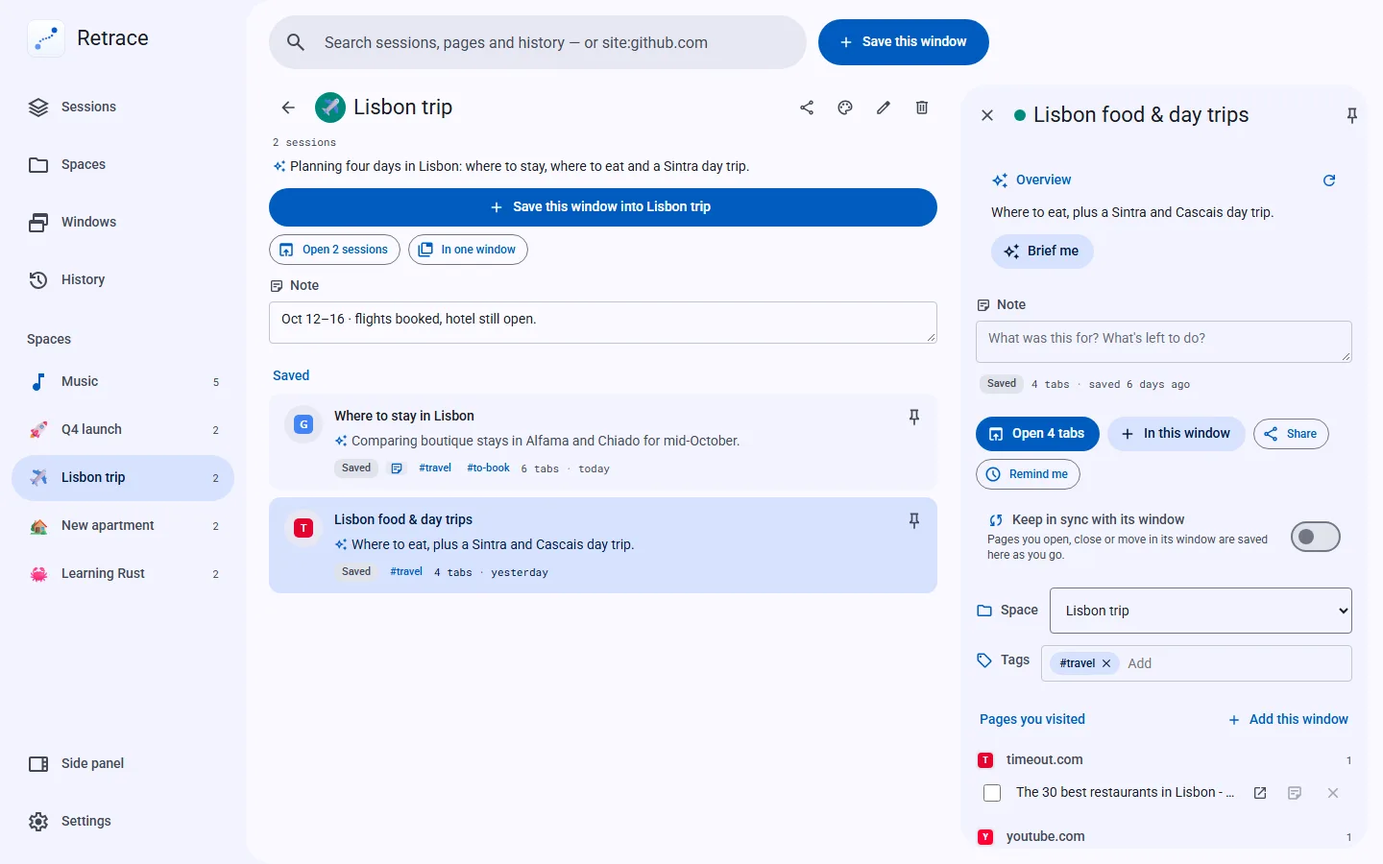
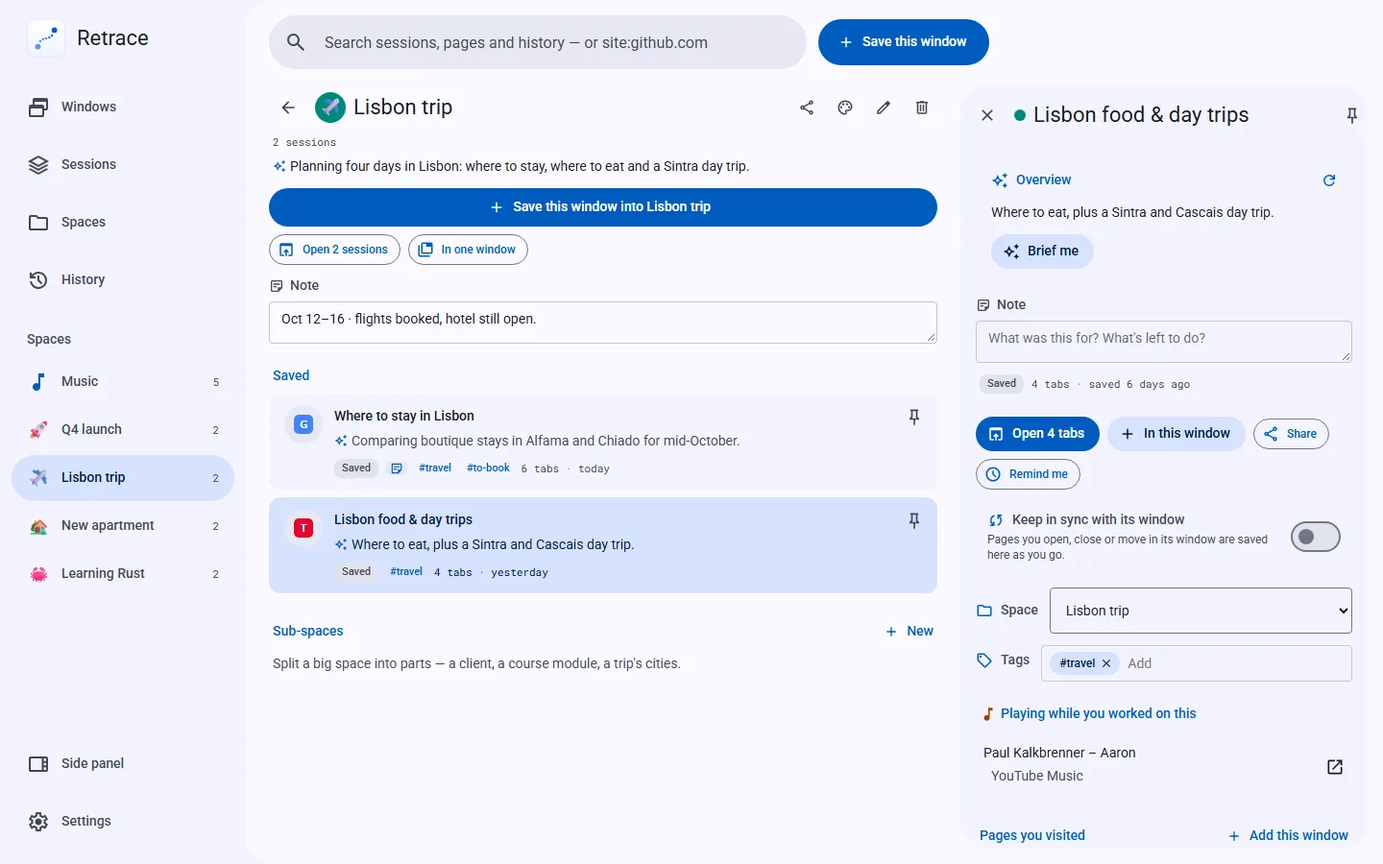
Site: Windows home, kept windows, Spaces that fill themselves, sub-spaces, Music import & Insights, Alt+Shift+R
New hero frame (Windows) and a 'Close a window, lose nothing' row; every UI picture
re-rendered from the current build; pricing, support and privacy (2026-09-28) cover
kept windows, imported listening history and the new Pro items.

diff --git a/index.html b/index.html
@@ -6,12 +6,12 @@
 <meta http-equiv="Content-Security-Policy" content="default-src 'self'; script-src 'self'; style-src 'self'; img-src 'self'; font-src 'self'; connect-src 'none'; frame-src 'none'; object-src 'none'; base-uri 'self'; form-action 'none'">
 <meta name="referrer" content="strict-origin-when-cross-origin">
 <title>Retrace — your browser history, made useful</title>
-<meta name="description" content="Retrace turns your tabs into sessions you can search, sort and reopen — like a better, built-in browser history. Everything stays on your device. No account, no network calls.">
+<meta name="description" content="Retrace shows every open window at a glance, keeps your tabs as sessions you can search and reopen, and files them into Spaces by itself — like a better, built-in browser history. Everything stays on your device.">
 <link rel="icon" href="icon.png?v=2">
 <link rel="apple-touch-icon" href="apple-touch-icon.png">
-<link rel="stylesheet" href="styles.css?v=4">
+<link rel="stylesheet" href="styles.css?v=5">
 <meta property="og:title" content="Retrace — your browser history, made useful">
-<meta property="og:description" content="Sessions you can search, sort and reopen — like a better, built-in browser history. Everything stays on your device.">
+<meta property="og:description" content="Every window at a glance, sessions you can search and reopen, Spaces that fill themselves — like a better, built-in browser history. Everything stays on your device.">
 <meta property="og:type" content="website">
 <meta property="og:url" content="https://retrace-addon.store/">
 <meta property="og:image" content="https://retrace-addon.store/img/og.png">
@@ -43,6 +43,8 @@
 <symbol id="i-open" viewBox="0 -960 960 960"><path d="M200-120q-33 0-56.5-23.5T120-200v-560q0-33 23.5-56.5T200-840h560q33 0 56.5 23.5T840-760v560q0 33-23.5 56.5T760-120H600v-80h160v-480H200v480h160v80H200Zm240 0v-246l-64 64-56-58 160-160 160 160-56 58-64-64v246h-80Z"/></symbol>
 <symbol id="i-check" viewBox="0 -960 960 960"><path d="M382-240 154-468l57-57 171 171 367-367 57 57-424 424Z"/></symbol>
 <symbol id="i-close" viewBox="0 -960 960 960"><path d="m256-200-56-56 224-224-224-224 56-56 224 224 224-224 56 56-224 224 224 224-56 56-224-224-224 224Z"/></symbol>
+<symbol id="i-keyboard" viewBox="0 -960 960 960"><path d="M160-200q-33 0-56.5-23.5T80-280v-400q0-33 23.5-56.5T160-760h640q33 0 56.5 23.5T880-680v400q0 33-23.5 56.5T800-200H160Zm0-80h640v-400H160v400Zm160-40h320v-80H320v80ZM200-440h80v-80h-80v80Zm120 0h80v-80h-80v80Zm120 0h80v-80h-80v80Zm120 0h80v-80h-80v80Zm120 0h80v-80h-80v80ZM200-560h80v-80h-80v80Zm120 0h80v-80h-80v80Zm120 0h80v-80h-80v80Zm120 0h80v-80h-80v80Zm120 0h80v-80h-80v80ZM160-280v-400 400Z"/></symbol>
+<symbol id="i-folder" viewBox="0 -960 960 960"><path d="M160-160q-33 0-56.5-23.5T80-240v-480q0-33 23.5-56.5T160-800h240l80 80h320q33 0 56.5 23.5T880-640v400q0 33-23.5 56.5T800-160H160Zm0-80h640v-400H447l-80-80H160v480Zm0 0v-480 480Z"/></symbol>
 <symbol id="i-cloud" viewBox="0 0 24 24"><path d="M6.5 19a4.5 4.5 0 0 1-.6-8.96A6.5 6.5 0 0 1 18.2 8.6 5.25 5.25 0 0 1 17.75 19H6.5Zm0-2h11.25a3.25 3.25 0 0 0 .15-6.5l-1.3-.06-.5-1.2A4.5 4.5 0 0 0 7.8 10.2l-.2 1.62-1.6.2A2.5 2.5 0 0 0 6.5 17Z"/></symbol>
 </svg>
 
@@ -64,26 +66,29 @@
   <section class="hero wrap" id="get">
     <span class="badge">● Works like a built-in browser feature · nothing leaves your device</span>
     <h1>Your browser history,<br>made useful.</h1>
-    <p class="lede">Retrace keeps your windows as <b>sessions</b> — named, searchable and one click from reopening. Like your history, it lives in your browser and nowhere else.</p>
+    <p class="lede">Retrace shows <b>every window</b> you have open, keeps them as <b>sessions</b> — named, searchable and one click from reopening — and files them into <b>Spaces</b> by itself. Like your history, it lives in your browser and nowhere else.</p>
     <div class="cta-row">
       <a class="btn primary lg" href="https://chromewebstore.google.com/detail/retrace-%E2%80%94-sessions-tabs/emckamdcooknppmfmblgelmajikidagb">Add to Chrome — free</a>
       <a class="btn primary lg" href="https://microsoftedge.microsoft.com/addons/detail/retrace-—-sessions-tabs/ofpbiapmnoipcmidljhfjldndoakdael">Add to Edge — free</a>
     </div>
     <p class="fineprint">Free · no account · optional <a href="#backup">Retrace Pro</a>, $10 once</p>
+    <p class="keyline">Then press <kbd>Alt</kbd> <kbd>Shift</kbd> <kbd>R</kbd> on any tab.</p>
 
     <!-- Three real screens, cross-faded in CSS (no script). Reduced motion shows the first. -->
     <div class="browser">
       <div class="browser-bar"><span></span><span></span><span></span></div>
       <div class="frames">
-        <picture class="frame f1"><source srcset="img/ui/hero-sessions-dark.webp" media="(prefers-color-scheme: dark)"><img src="img/ui/hero-sessions.webp" width="1440" height="900" alt="Retrace's full page: saved sessions on the left, and one session — “Where to stay in Lisbon” — open with its summary, note and tags."></picture>
-        <picture class="frame f2"><source srcset="img/ui/hero-spaces-dark.webp" media="(prefers-color-scheme: dark)"><img src="img/ui/hero-spaces.webp" width="1440" height="900" alt="A “Lisbon trip” Space holding the sessions saved for the trip." loading="lazy"></picture>
-        <picture class="frame f3"><source srcset="img/ui/hero-search-dark.webp" media="(prefers-color-scheme: dark)"><img src="img/ui/hero-search.webp" width="1440" height="900" alt="Searching “where did I see that hotel in alfama?” finds the Lisbon hotel session." loading="lazy"></picture>
+        <picture class="frame f1"><source srcset="img/ui/hero-windows-dark.webp?v=5" media="(prefers-color-scheme: dark)"><img src="img/ui/hero-windows.webp?v=5" width="1440" height="900" alt="Retrace's Windows view: every open window numbered and named — “Sourdough baking”, “Launch week” — with a one-line summary, its tab groups and its tabs."></picture>
+        <picture class="frame f2"><source srcset="img/ui/hero-sessions-dark.webp?v=5" media="(prefers-color-scheme: dark)"><img src="img/ui/hero-sessions.webp?v=5" width="1440" height="900" alt="Retrace's full page: saved sessions, and one session — “Where to stay in Lisbon” — open with its summary, note and tags." loading="lazy"></picture>
+        <picture class="frame f3"><source srcset="img/ui/hero-spaces-dark.webp?v=5" media="(prefers-color-scheme: dark)"><img src="img/ui/hero-spaces.webp?v=5" width="1440" height="900" alt="A “Lisbon trip” Space holding the sessions saved for the trip." loading="lazy"></picture>
+        <picture class="frame f4"><source srcset="img/ui/hero-search-dark.webp?v=5" media="(prefers-color-scheme: dark)"><img src="img/ui/hero-search.webp?v=5" width="1440" height="900" alt="Searching “where did I see that hotel in alfama?” finds the Lisbon hotel session." loading="lazy"></picture>
       </div>
     </div>
     <ol class="frame-labels" aria-hidden="true">
-      <li class="l1">Sessions, not a wall of tabs</li>
-      <li class="l2">Spaces that gather them</li>
-      <li class="l3">Ask in plain words</li>
+      <li class="l1">Every window at a glance</li>
+      <li class="l2">Sessions, not a wall of tabs</li>
+      <li class="l3">Spaces that fill themselves</li>
+      <li class="l4">Ask in plain words</li>
     </ol>
   </section>
 
@@ -113,7 +118,7 @@
         </figure>
         <div class="vs-arrow" aria-hidden="true">→</div>
         <figure class="vs-side">
-          <picture class="phone"><source srcset="img/ui/sessions-dark.webp" media="(prefers-color-scheme: dark)"><img src="img/ui/sessions.webp" width="800" height="1280" loading="lazy" alt="Retrace's side panel: saved sessions named “Sunset spots”, “Where to stay in Lisbon” and “Apartment shortlist”, each with a one-line summary."></picture>
+          <picture class="phone"><source srcset="img/ui/sessions-dark.webp?v=5" media="(prefers-color-scheme: dark)"><img src="img/ui/sessions.webp?v=5" width="800" height="1280" loading="lazy" alt="Retrace's side panel: saved sessions named “Sunset spots”, “Where to stay in Lisbon” and “Apartment shortlist”, each with a one-line summary."></picture>
           <figcaption><b>Retrace</b> — grouped by what you were doing, named, and one click to reopen.</figcaption>
         </figure>
       </div>
@@ -133,17 +138,17 @@
       <p class="sub">Three steps. No account, nothing to set up.</p>
       <ol class="how">
         <li>
-          <picture class="phone"><source srcset="img/ui/save-dark.webp" media="(prefers-color-scheme: dark)"><img src="img/ui/save.webp" width="800" height="1280" loading="lazy" alt="Retrace's side panel with the current window described and a Save button."></picture>
-          <h3><span class="num">1</span>Save</h3>
-          <p>One click — or Ctrl+Shift+S — keeps the window you're in.</p>
+          <picture class="phone"><source srcset="img/ui/save-dark.webp?v=5" media="(prefers-color-scheme: dark)"><img src="img/ui/save.webp?v=5" width="800" height="1280" loading="lazy" alt="Retrace's side panel on the Windows tab: this window, named “Sourdough baking”, with its summary and a Save button."></picture>
+          <h3><span class="num">1</span>Open it anywhere</h3>
+          <p><kbd>Alt</kbd> <kbd>Shift</kbd> <kbd>R</kbd> shows every window, named and summed up. Save one in a click — or let Retrace keep it.</p>
         </li>
         <li>
-          <picture class="phone"><source srcset="img/ui/suggest-dark.webp" media="(prefers-color-scheme: dark)"><img src="img/ui/suggest.webp" width="800" height="1280" loading="lazy" alt="A session with “Suggested: Lisbon trip” and an Add button."></picture>
+          <picture class="phone"><source srcset="img/ui/suggest-dark.webp?v=5" media="(prefers-color-scheme: dark)"><img src="img/ui/suggest.webp?v=5" width="800" height="1280" loading="lazy" alt="A session with “Suggested: Lisbon trip” and an Add button."></picture>
           <h3><span class="num">2</span>Organize</h3>
-          <p>Retrace suggests the Space it belongs in.</p>
+          <p>Retrace files it into a Space — Work, Travel, Learning — or suggests one.</p>
         </li>
         <li>
-          <picture class="phone"><source srcset="img/ui/search-dark.webp" media="(prefers-color-scheme: dark)"><img src="img/ui/search.webp" width="800" height="1280" loading="lazy" alt="Searching “where did I see that hotel in alfama?” and the matching sessions."></picture>
+          <picture class="phone"><source srcset="img/ui/search-dark.webp?v=5" media="(prefers-color-scheme: dark)"><img src="img/ui/search.webp?v=5" width="800" height="1280" loading="lazy" alt="Searching “where did I see that hotel in alfama?” and the matching sessions."></picture>
           <h3><span class="num">3</span>Find it again</h3>
           <p>Ask in plain words. Reopen it all in one click.</p>
         </li>
@@ -157,44 +162,53 @@
       <h2>Everything you need to retrace your steps</h2>
       <div class="rows">
         <div class="row">
-          <picture class="phone"><source srcset="img/ui/detail-dark.webp" media="(prefers-color-scheme: dark)"><img src="img/ui/detail.webp" width="800" height="1280" loading="lazy" alt="A session's details: a one-line overview, topic chips, a note and its pages."></picture>
+          <picture class="phone"><source srcset="img/ui/windows-dark.webp?v=5" media="(prefers-color-scheme: dark)"><img src="img/ui/windows.webp?v=5" width="800" height="1280" loading="lazy" alt="Window 2, “Launch week”: an AI summary, its “Launch” tab group, and tools to group, close duplicates, sleep or select tabs."></picture>
+          <div class="row-text">
+            <h3>Every open window at a glance</h3>
+            <p>Each window gets a name and a one-line summary, with its tab groups and what's playing. Press <kbd>1</kbd>–<kbd>9</kbd> to jump there, <kbd>Alt</kbd> <kbd>Shift</kbd> <kbd>W</kbd> for the next one. Group, tidy or sleep tabs in a click.</p>
+          </div>
+        </div>
+        <div class="row">
+          <picture class="phone"><source srcset="img/ui/kept-dark.webp?v=5" media="(prefers-color-scheme: dark)"><img src="img/ui/kept.webp?v=5" width="800" height="1280" loading="lazy" alt="Sessions › Kept: “Apartment hunt”, open now, and “Running shoes”, closed yesterday, each with Keep for good and Forget."></picture>
+          <div class="row-text">
+            <h3>Close a window, lose nothing</h3>
+            <p>Busy windows are kept by themselves and follow along as you work. Close one by accident? It's still there for two weeks — keep it for good in one click.</p>
+          </div>
+        </div>
+        <div class="row">
+          <picture class="phone"><source srcset="img/ui/detail-dark.webp?v=5" media="(prefers-color-scheme: dark)"><img src="img/ui/detail.webp?v=5" width="800" height="1280" loading="lazy" alt="A session's details: a one-line overview, topic chips, a note and its pages."></picture>
           <div class="row-text">
             <h3>Sessions that describe themselves</h3>
             <p>A search shows as what you searched for, a video by its title, a repo by its name — never just “google.com”.</p>
           </div>
         </div>
         <div class="row">
-          <picture class="phone"><source srcset="img/ui/space-dark.webp" media="(prefers-color-scheme: dark)"><img src="img/ui/space.webp" width="800" height="1280" loading="lazy" alt="The Lisbon trip Space: an overview line, a note, and its sessions."></picture>
+          <picture class="phone"><source srcset="img/ui/space-dark.webp?v=5" media="(prefers-color-scheme: dark)"><img src="img/ui/space.webp?v=5" width="800" height="1280" loading="lazy" alt="The Lisbon trip Space: an overview line, a note, and its sessions."></picture>
           <div class="row-text">
-            <h3>Spaces for trips, projects and courses</h3>
-            <p>Related sessions gather in one place. Retrace learns what each Space is about and files new sessions for you.</p>
+            <h3>Spaces that fill themselves</h3>
+            <p>Start with Work, Personal, Learning, Shopping and Travel — or make your own, with sub-spaces inside. Retrace learns what each is about and files new sessions for you.</p>
           </div>
         </div>
         <div class="row">
-          <picture class="phone"><source srcset="img/ui/timeline-dark.webp" media="(prefers-color-scheme: dark)"><img src="img/ui/timeline.webp" width="800" height="1280" loading="lazy" alt="The recovery timeline: a slider over today and the windows and tabs that were open at that moment."></picture>
+          <picture class="phone"><source srcset="img/ui/timeline-dark.webp?v=5" media="(prefers-color-scheme: dark)"><img src="img/ui/timeline.webp?v=5" width="800" height="1280" loading="lazy" alt="The recovery timeline: a slider over today and the windows and tabs that were open at that moment."></picture>
           <div class="row-text">
             <h3>Go back to any moment</h3>
             <p>Every few minutes Retrace notes what's open. After a crash — or for that tab you closed an hour ago — slide back through the day.</p>
           </div>
         </div>
         <div class="row">
-          <picture class="phone"><source srcset="img/ui/music-dark.webp" media="(prefers-color-scheme: dark)"><img src="img/ui/music.webp" width="800" height="1280" loading="lazy" alt="The Music library: songs by artist, play counts, favourites and the sites each is on."></picture>
+          <picture class="phone"><source srcset="img/ui/music-dark.webp?v=5" media="(prefers-color-scheme: dark)"><img src="img/ui/music.webp?v=5" width="800" height="1280" loading="lazy" alt="The Music library: songs by artist, play counts, favourites and the sites each is on."></picture>
           <div class="row-text">
             <h3>All your music in one list</h3>
-            <p>One entry per song, whether you heard it on YouTube, Spotify or SoundCloud. <span class="pro-tag">Pro</span> adds the songs you play by themselves.</p>
-          </div>
-        </div>
-        <div class="row">
-          <picture class="phone"><source srcset="img/ui/windows-dark.webp" media="(prefers-color-scheme: dark)"><img src="img/ui/windows.webp" width="800" height="1280" loading="lazy" alt="The Windows view: every open window and tab, with close-duplicates and sleep buttons."></picture>
-          <div class="row-text">
-            <h3>Every open window at a glance</h3>
-            <p>Search your open tabs, close duplicates, move tabs between windows and put background tabs to sleep.</p>
+            <p>One entry per song, whether you heard it on YouTube, Spotify or SoundCloud — playlists, and your history brought in from Spotify or YouTube. <span class="pro-tag">Pro</span> adds the songs you play by themselves, and a monthly recap.</p>
           </div>
         </div>
       </div>
 
       <h3 class="more-h">And the small things that add up</h3>
       <ul class="icons">
+        <li><svg class="ic"><use href="#i-keyboard"/></svg>One key opens it anywhere</li>
+        <li><svg class="ic"><use href="#i-folder"/></svg>Spaces inside Spaces</li>
         <li><svg class="ic"><use href="#i-tabgroup"/></svg>Tab groups kept</li>
         <li><svg class="ic"><use href="#i-sync"/></svg>Sessions that stay in sync</li>
         <li><svg class="ic"><use href="#i-note"/></svg>Notes on any page</li>
@@ -217,7 +231,7 @@
       <p class="sub">Retrace keeps everything in your browser's own storage — like your history and bookmarks. It has no servers to send anything to.</p>
       <div class="diagram" role="img" aria-label="Your browser, with Retrace inside it, and a crossed-out link to the internet.">
         <div class="d-box">
-          <img src="icon.png?v=2" alt="" width="44" height="44"><b>Your browser</b><span>sessions · spaces · music · timeline</span>
+          <img src="icon.png?v=2" alt="" width="44" height="44"><b>Your browser</b><span>windows · sessions · spaces · music · timeline</span>
         </div>
         <div class="d-link"><span class="d-x"><svg class="ic"><use href="#i-close"/></svg></span></div>
         <div class="d-box d-cloud"><svg class="ic big"><use href="#i-cloud"/></svg><b>Anyone's servers</b><span>never contacted</span></div>
@@ -240,10 +254,11 @@
           <div class="tag">Free</div>
           <div class="amt">$0</div>
           <ul>
-            <li>Sessions, Spaces, search &amp; history</li>
+            <li>Every window at a glance, kept automatically</li>
+            <li>Sessions, Spaces that fill themselves, search &amp; history</li>
             <li>Recovery timeline (a day)</li>
-            <li>Music library, notes, tags &amp; reminders</li>
-            <li>Windows view, tab groups, sharing &amp; import</li>
+            <li>Music: library, playlists, Spotify &amp; YouTube import</li>
+            <li>Notes, tags, reminders, sharing &amp; import</li>
             <li>On-device AI, when your device supports it</li>
           </ul>
           <a class="btn outline lg" href="#get">Add to your browser</a>
@@ -252,7 +267,8 @@
           <div class="tag">Retrace Pro · Chrome &amp; Edge</div>
           <div class="amt">$10<small> once</small></div>
           <ul>
-            <li><b>Listening</b> — songs you play go into Music by themselves</li>
+            <li><b>Listening</b> — songs you play go into Music by themselves, with a monthly <b>recap</b></li>
+            <li>Closed windows kept <b>90 days</b>; new tabs join their group</li>
             <li><b>Backup &amp; restore</b>, encrypted if you like</li>
             <li>A <b>connected backup file</b> for your other devices</li>
             <li><b>Keyboard shortcuts</b> + Ctrl-K palette</li>

diff --git a/support.html b/support.html
@@ -9,7 +9,7 @@
 <meta name="description" content="How to get help with Retrace and how to use it — the free features, the on-device AI, and the paid Backup & restore. Support by email at support@retrace-addon.store.">
 <link rel="icon" href="icon.png?v=2">
 <link rel="apple-touch-icon" href="apple-touch-icon.png">
-<link rel="stylesheet" href="styles.css?v=4">
+<link rel="stylesheet" href="styles.css?v=5">
 </head>
 <body>
 
@@ -40,7 +40,7 @@
   <p>Not sure which to use? Just email <a href="mailto:support@retrace-addon.store">support@retrace-addon.store</a>. We're a solo team and reply as soon as we can — <b>usually within 1–2 business days</b>, and every message is answered by a person. <b>If you hit a problem, please email us before requesting a refund</b> — we can usually fix it quickly.</p>
 
   <h2>The basics: sessions &amp; Spaces</h2>
-  <p>A <b>session</b> is a saved snapshot of a window's tabs that you can search and reopen later. A <b>Space</b> is a folder that gathers related sessions over time. Retrace has three surfaces that share one design — a compact <b>popup</b>, a <b>side panel</b>, and a <b>full page</b> — and you can work from any of them.</p>
+  <p>A <b>session</b> is a saved snapshot of a window's tabs that you can search and reopen later. A <b>Space</b> is a folder that gathers related sessions over time. Retrace opens on <b>Windows</b> — everything open right now — and has three surfaces that share one design — a compact <b>popup</b>, a <b>side panel</b>, and a <b>full page</b> — so you can work from any of them. Press <b>Alt+Shift+R</b> on any tab to open it (change the key at <code>chrome://extensions/shortcuts</code>).</p>
 
   <h2>Using the free features</h2>
   <ul>
@@ -53,14 +53,16 @@
     <li><b>Rename &amp; delete</b> — rename any session, or delete it; destructive actions show an <b>Undo</b>. Deleted sessions also go to a <b>30-day trash</b> in Settings, so you can restore them later.</li>
     <li><b>Sort &amp; multi-select</b> — sort your list by recent, name, or number of tabs, and use <b>Select</b> to archive, delete, or move several sessions to a Space at once.</li>
     <li><b>Grow a session</b> — use <b>Add this window</b> to fold the current tabs into an existing session, or remove a single tab from it.</li>
+    <li><b>Default spaces &amp; sub-spaces</b> — the Spaces tab offers Work, Personal, Learning, Shopping and Travel once; add them and Retrace files matching sessions into them, now and as you save. Put a space inside another from its palette button (<b>Inside</b>), or use <b>Sub-spaces › New</b> in a space. <code>in:Work</code> searches Work and its sub-spaces.</li>
     <li><b>Spaces</b> — create folders and move sessions into them to keep related work together. Retrace learns what each Space is about: when you save a window it suggests the right Space (tap <b>Add</b>), and <b>Spaces › Sort unfiled sessions</b> files the rest in a tap and proposes new Spaces. To have clear matches filed for you, choose <b>Settings › Saving › Spaces for new sessions › File automatically when sure</b> (there's always an Undo).</li>
     <li><b>Space rules, look &amp; notes</b> — open a Space and press the palette button to give it an emoji, a colour and <b>auto-file rules</b> (sites like <code>jira.acme.com</code> or <code>github.com/acme</code>, and words). Saves that match go straight in. A Space also has a note, and can open all its sessions at once — each in its own window, or all in one window with a tab group per session.</li>
     <li><b>Notes</b> — in a session's details, write a note on the session, or press the note icon on any page to note that page. Notes are searchable.</li>
-    <li><b>Group tabs</b> — press <b>Group tabs</b> next to “Active now” to sort the current window's loose tabs into browser tab groups by topic. Your pinned tabs and existing groups are left alone, and <b>Undo</b> removes the new groups.</li>
+    <li><b>Group tabs</b> — press <b>Group tabs</b> on a window in the Windows tab to sort its loose tabs into browser tab groups by topic. Your pinned tabs and existing groups are left alone, and <b>Undo</b> removes the new groups.</li>
     <li><b>Search &amp; history</b> — search every session by title, summary, note, page title or web address (including the words of a search you made). Narrow it with <code>site:github.com</code>, <code>in:Work</code>, <code>is:pinned</code>, or dates like “last week” and “yesterday” — or type a sentence. Restore recently closed windows, and browse a searchable log of what you did (you can clear it in Settings).</li>
     <li><b>Save &amp; close</b> — in <b>Settings › After saving a window</b>, choose <b>Close saved tabs</b> and every save also closes those tabs to free up memory (browser-pinned tabs are left alone).</li>
     <li><b>Keep a session in sync</b> — in a session's details, turn on <b>Keep in sync with its window</b>. While its window is open, the session follows it: tabs you open, close or move are saved automatically. Reopening the session picks the link up again, even after a browser restart.</li>
-    <li><b>Windows</b> — the <b>Windows</b> tab shows every open window. Search all open tabs, jump to one, drag a tab onto another window to move it, <b>Save all</b>, <b>Close duplicates</b> (with Undo), or press the moon icon to put background tabs to sleep and free memory. Duplicates and sleep are also next to <b>Active now</b>.</li>
+    <li><b>Windows</b> — the first tab shows every open window, numbered in the order you opened them, each with a name, a one-line summary, its tab groups and what's playing. Press <b>1–9</b> there to jump to a window, or <b>Alt+Shift+W</b> anywhere for the next one (give <i>Go to window 1/2/3</i> keys at <code>chrome://extensions/shortcuts</code>). On each window: <b>Group tabs</b>, <b>Close duplicates</b> (with Undo), <b>Sleep</b> (frees memory), <b>Select</b> to save just some tabs, and <b>Save</b>. If a window looks like a session you saved, <b>Keep in sync</b> links them. Drag a tab onto another window to move it. Prefer to start on Sessions? <b>Settings › Open Retrace on</b>.</li>
+    <li><b>Kept windows</b> — a window with 5 or more pages, open for 10 minutes, is kept by itself under <b>Sessions › Kept</b> and follows the window. Closed, it stays 14 days, then goes to the trash; <b>Keep for good</b> makes it a normal session, <b>Forget</b> removes it. Windows you've saved aren't kept twice. Turn it off in <b>Settings › Keep my windows automatically</b>.</li>
     <li><b>Share</b> — in a session's details (or a Space's header), press <b>Share</b> to copy the links (plain or Markdown) or save a <b>Retrace file</b> or a <b>web page</b> of links. Nothing is uploaded. Notes are left out unless you tick <b>Include my notes</b>. To open a Retrace file someone sent you: <b>Settings › Import from another tab manager</b>.</li>
     <li><b>Tags</b> — in a session's details, type a tag and press Enter (suggested topics appear underneath). Click a tag on any card, or search <code>#tag</code>, to see everything with it.</li>
     <li><b>Reminders</b> — press <b>Remind me</b> in a session's details and pick a time. When it's due, the session waits at the top of your list and the toolbar icon shows a number; opening it marks it done.</li>
@@ -84,8 +86,11 @@
   <p>Open <b>Spaces › Music</b>. It's a library of songs — one entry per song, whichever site you heard it on (YouTube, YouTube Music, Spotify, SoundCloud, Bandcamp).</p>
   <ul>
     <li><b>Add songs:</b> <b>Add songs from this window</b>, <b>Add a link</b> (paste the link and type “Artist – Title”), <b>Add to Music</b> in a saved session's Music section, or <b>Add this song to Music</b> in the popup's Save menu.</li>
-    <li><b>Browse:</b> <b>Recent</b> (by when you last played or added them) or <b>Songs</b> (favourites first, then by artist). The search box searches songs while Music is open. Tap ♥ to favourite; ✕ removes a song, with Undo.</li>
-    <li><b>Automatically (Retrace Pro):</b> turn on <b>Settings › Listening › Remember music I listen to</b>. A song counts once it has played for 20 seconds in a tab; the same song on another site adds a link to the same entry. Retrace reads only tab titles — it never listens to audio and nothing leaves your device. Songs in desktop apps or on other devices aren't seen.</li>
+    <li><b>Browse:</b> <b>Recent</b> (by when you last played or added them), <b>Songs</b> (favourites first, then by artist) or <b>Playlists</b>. The search box searches songs while Music is open. Tap ♥ to favourite; a song's ⋮ menu adds it to a playlist, edits its artist and title, or removes it (with Undo).</li>
+    <li><b>Play:</b> click a song to play it — Retrace plays on through that list in one tab, with <b>Next</b> and <b>Previous</b> in the player at the bottom. Play, pause and volume stay with your browser's own media button.</li>
+    <li><b>Bring your history:</b> <b>Import &amp; export</b> reads the files you download yourself — Spotify's data export (<code>StreamingHistory…json</code>) or Google Takeout's YouTube history (<code>watch-history.json</code>). You see what will come in first, and Undo takes it back. Export your songs as CSV, or share a playlist as links or a file.</li>
+    <li><b>Insights (Retrace Pro):</b> the <b>Insights</b> tab shows a month, a year or all time — plays, time listened, top artists and songs, your longest streak and when in the day you listen.</li>
+    <li><b>Automatically (Retrace Pro):</b> turn on <b>Settings › Listening › Remember music I listen to</b>. You can pause it, choose which sites count, and forget today's plays. A song counts once it has played for 20 seconds in a tab; the same song on another site adds a link to the same entry. Retrace reads only tab titles — it never listens to audio and nothing leaves your device. Songs in desktop apps or on other devices aren't seen.</li>
   </ul>
 
   <h2>Using Retrace Pro (paid)</h2>

diff --git a/privacy.html b/privacy.html
@@ -9,7 +9,7 @@
 <meta name="description" content="Retrace's privacy policy. Everything stays on your device; Retrace makes no network requests — its security policy blocks them.">
 <link rel="icon" href="icon.png?v=2">
 <link rel="apple-touch-icon" href="apple-touch-icon.png">
-<link rel="stylesheet" href="styles.css?v=4">
+<link rel="stylesheet" href="styles.css?v=5">
 </head>
 <body>
 
@@ -28,7 +28,7 @@
 <main class="wrap article">
   <a class="back" href="index.html">← Back to Retrace</a>
   <h1>Retrace — Privacy Policy</h1>
-  <p class="updated">Last updated: 2026-09-27</p>
+  <p class="updated">Last updated: 2026-09-28</p>
 
   <p>Retrace is a tab and session manager for <b>Google Chrome and Microsoft Edge</b>. It is built to be <b>private by default</b>: everything Retrace stores stays on your own computer, and Retrace makes <b>no network requests</b> — it has no servers, no account system, and no analytics. The extension's content-security policy blocks network connections outright, so this is enforced by the browser, not just promised.</p>
 
@@ -40,6 +40,8 @@
     <li><b>An activity log</b> — a local list of actions you take in Retrace (saved, reopened, renamed, pinned, archived, deleted), so you can retrace your steps.</li>
     <li><b>Recovery timeline</b> — every few minutes, the titles and URLs of the tabs open in your normal (never incognito) windows, so you can reopen them after a crash or find a page you closed. Every change in the last 2 hours is kept, then one per hour, for a day (up to 30 days if you choose, with Retrace Pro). You can turn this off or clear it in Settings.</li>
     <li><b>Music</b> — the songs in your Music library: artist, title, the links you have for it, how often and when you played it, and whether you favourited it. You add songs yourself, or — only if you turn on <b>Listening</b> (Retrace Pro) — Retrace adds a song when a tab on a music site (YouTube, YouTube Music, Spotify, SoundCloud, Bandcamp) has been playing sound with the same title for 20 seconds. It reads only that tab's title and address; it never accesses audio, and nothing is sent anywhere.</li>
+    <li><b>Kept windows</b> — if “Keep my windows automatically” is on (it can be turned off in Settings), the titles and URLs of the tabs in a busy window (5 or more pages, open 10 minutes), kept on your device so you can get them back after closing it. A closed kept window is removed after 14 days (30 or 90 with Retrace Pro), unless you keep it. Incognito windows are never kept.</li>
+    <li><b>Listening history you import</b> — if you choose a Spotify or Google Takeout export file in Music › Import &amp; export, Retrace reads it on your device and keeps the songs and when you played them. The file is never uploaded. With Retrace Pro, Retrace also keeps a list of when each song was played, for the Insights view.</li>
     <li><b>Tags and reminders</b> you add to sessions, and which session is kept in sync with which open window (held in memory only until the browser closes).</li>
     <li><b>Settings</b> — your preferences, such as whether pinned sessions reopen on launch and what the toolbar icon opens.</li>
     <li><b>A license key</b> (optional) — if you buy the Retrace Pro unlock and paste your key, the key is stored locally. It embeds the email you purchased with; that email stays on your device and is never transmitted by the extension.</li>
@@ -95,7 +97,8 @@
     <li><b>Deleted sessions</b> go to a trash in Settings for 30 days (so an accidental delete can be undone), then are removed for good. “Delete forever” and “Empty trash” remove them immediately and blank their titles in the activity log.</li>
     <li><b>Activity history</b> (up to 500 entries) can be cleared in Settings at any time.</li>
     <li><b>The recovery timeline</b> can be turned off and cleared in Settings.</li>
-    <li><b>Music</b>: remove any song in the Music library; with Retrace Pro, turn Listening off or remove all music in Settings.</li>
+    <li><b>Music</b>: remove any song in the Music library; with Retrace Pro, turn Listening off, forget today's plays, or remove all music in Settings.</li>
+    <li><b>Kept windows</b>: forget any of them under Sessions › Kept, or turn keeping off in Settings; closed ones are removed after 14 days (30 or 90 with Pro).</li>
     <li><b>Notes</b> are removed when you clear them or delete what they're on; the local <b>AI cache</b> holds only recent results and is removed with the extension.</li>
     <li>Removing (uninstalling) the extension, or clearing the extension's site data in your browser, permanently erases everything Retrace has stored.</li>
   </ul>

diff --git a/pricing.html b/pricing.html
@@ -9,7 +9,7 @@
 <meta name="description" content="Retrace pricing. The extension is free to install. One optional unlock — Retrace Pro, a one-time $10 for backup, sync through a connected file, keyboard shortcuts, auto-archive and templates — delivered as a license key by email.">
 <link rel="icon" href="icon.png?v=2">
 <link rel="apple-touch-icon" href="apple-touch-icon.png">
-<link rel="stylesheet" href="styles.css?v=4">
+<link rel="stylesheet" href="styles.css?v=5">
 <meta property="og:title" content="Retrace — Pricing">
 <meta property="og:description" content="Free to install. One optional one-time $10 unlock — Retrace Pro: backup, connected-file sync, shortcuts, Tidy up, a 30-day recovery timeline, auto-archive and templates. No subscription, no account.">
 <meta property="og:type" content="website">
@@ -61,7 +61,8 @@
         <div class="tag">Retrace Pro · for Chrome &amp; Edge</div>
         <div class="amt">$10<small> once</small></div>
         <ul>
-          <li><b>Listening</b> — songs you play (YouTube, YouTube Music, Spotify, SoundCloud, Bandcamp) go into Music by themselves, with play counts and an Artists view</li>
+          <li><b>Listening</b> — songs you play (YouTube, YouTube Music, Spotify, SoundCloud, Bandcamp) go into Music by themselves, with play counts, an Artists view and <b>Insights</b> (your month or year in music), plus pause, per-site and “forget today” controls and three music shortcuts</li>
+          <li><b>Kept windows for 30 or 90 days</b> (14 in the free version), and <b>new tabs join the tab group</b> on their site</li>
           <li><b>Backup &amp; restore</b> — export/import your data, with optional password <b>encryption</b></li>
           <li><b>Connected backup file</b> — kept in two-way sync (encrypted by default) through a Dropbox/Drive folder for cross-device continuity, still no Retrace servers</li>
           <li><b>Keyboard shortcuts + ⌘/Ctrl-K palette</b> — rebindable keys and a fuzzy command palette</li>
@@ -83,7 +84,8 @@
     <p><b>Price:</b> $10.00, charged once. It is <b>not</b> a subscription and there are no recurring fees.</p>
     <p><b>What it does:</b> Retrace Pro adds several features, all on your own device:</p>
     <ul>
-      <li><b>Listening</b> — songs you play in the browser go into Retrace's Music library by themselves, counted per song, with an Artists view. It reads only tab titles, on your device.</li>
+      <li><b>Listening</b> — songs you play in the browser go into Retrace's Music library by themselves, counted per song, with an Artists view and Insights (top songs and artists, time listened, when you listen). It reads only tab titles, on your device. You can pause it, choose sites, and forget today's plays.</li>
+      <li><b>Windows</b> — keep closed windows for 30 or 90 days instead of 14, and have new tabs join the tab group on the same site.</li>
       <li><b>Backup &amp; restore</b> — export everything Retrace has stored to a file and merge it into Retrace on another device (the newer copy of anything wins; nothing is wiped); the export can be <b>password-encrypted</b>.</li>
       <li><b>Connected backup file</b> — point Retrace at a file once and it keeps it in two-way sync, encrypted by default; put it in a synced folder (Dropbox/Drive/OneDrive) for cross-device continuity, with no Retrace servers.</li>
       <li><b>Custom keyboard shortcuts</b> and a <b>⌘/Ctrl-K command palette</b> to drive Retrace from the keyboard.</li>

diff --git a/styles.css b/styles.css
@@ -163,16 +163,21 @@ footer.site a:hover{color:var(--on-surface)}
 .browser-bar{display:flex;gap:7px;padding:11px 14px;background:var(--sc-high)}
 .browser-bar span{width:11px;height:11px;border-radius:50%;background:var(--outline-variant)}
 .frames{position:relative;aspect-ratio:1440/900;background:var(--surface)}
-.frame{position:absolute;inset:0;opacity:0;animation:rt-fade 15s infinite}
+.frame{position:absolute;inset:0;opacity:0;animation:rt-fade 20s infinite}
 .frame img{display:block;width:100%;height:100%}
 .f2{animation-delay:5s}
 .f3{animation-delay:10s}
-@keyframes rt-fade{0%{opacity:0}4%{opacity:1}33%{opacity:1}37%{opacity:0}100%{opacity:0}}
+.f4{animation-delay:15s}
+@keyframes rt-fade{0%{opacity:0}3%{opacity:1}25%{opacity:1}28%{opacity:0}100%{opacity:0}}
 .frame-labels{list-style:none;display:flex;justify-content:center;flex-wrap:wrap;gap:8px;margin:18px 0 0;padding:0}
-.frame-labels li{font-size:14px;font-weight:600;padding:6px 14px;border-radius:20px;color:var(--on-surface-variant);animation:rt-label 15s infinite}
+.frame-labels li{font-size:14px;font-weight:600;padding:6px 14px;border-radius:20px;color:var(--on-surface-variant);animation:rt-label 20s infinite}
 .frame-labels .l2{animation-delay:5s}
 .frame-labels .l3{animation-delay:10s}
-@keyframes rt-label{0%,37%,100%{background:transparent;color:var(--on-surface-variant)}4%,33%{background:var(--primary-container);color:var(--on-primary-container)}}
+.frame-labels .l4{animation-delay:15s}
+@keyframes rt-label{0%,28%,100%{background:transparent;color:var(--on-surface-variant)}3%,25%{background:var(--primary-container);color:var(--on-primary-container)}}
+/* Keycaps, for the one shortcut worth learning */
+kbd{display:inline-block;font:600 .85em/1 ui-monospace,Consolas,monospace;padding:.28em .5em;border-radius:6px;background:var(--sc-high);color:var(--on-surface);border:1px solid var(--outline-variant);border-bottom-width:2px;vertical-align:.08em}
+.keyline{margin:14px 0 0;font-size:15px;color:var(--on-surface-variant)}
 @media (prefers-reduced-motion:reduce){
   .frame,.frame-labels li{animation:none}
   .f1{opacity:1}

diff --git a/recover-tabs.html b/recover-tabs.html
@@ -10,7 +10,7 @@
 <link rel="canonical" href="https://retrace-addon.store/recover-tabs.html">
 <link rel="icon" href="icon.png?v=2">
 <link rel="apple-touch-icon" href="apple-touch-icon.png">
-<link rel="stylesheet" href="styles.css?v=4">
+<link rel="stylesheet" href="styles.css?v=5">
 <meta property="og:title" content="Get your tabs back after Chrome or Edge crashes or closes">
 <meta property="og:description" content="How to restore tabs after the browser crashes or you close a window by mistake: built-in shortcuts, history, startup settings — and a recovery timeline that keeps them safe.">
 <meta property="og:type" content="article">

diff --git a/save-all-tabs.html b/save-all-tabs.html
@@ -10,7 +10,7 @@
 <link rel="canonical" href="https://retrace-addon.store/save-all-tabs.html">
 <link rel="icon" href="icon.png?v=2">
 <link rel="apple-touch-icon" href="apple-touch-icon.png">
-<link rel="stylesheet" href="styles.css?v=4">
+<link rel="stylesheet" href="styles.css?v=5">
 <meta property="og:title" content="How to save all your open tabs in Chrome or Edge (and get them back)">
 <meta property="og:description" content="Three ways to save every open tab in Chrome or Edge — bookmarks, tab groups, or a session manager — and how to find them again later.">
 <meta property="og:type" content="article">

diff --git a/refund.html b/refund.html
@@ -9,7 +9,7 @@
 <meta name="description" content="Retrace's refund policy for the one-time Retrace Pro unlock. Full refund within 14 days if your key doesn't arrive or doesn't work.">
 <link rel="icon" href="icon.png?v=2">
 <link rel="apple-touch-icon" href="apple-touch-icon.png">
-<link rel="stylesheet" href="styles.css?v=4">
+<link rel="stylesheet" href="styles.css?v=5">
 </head>
 <body>
 

diff --git a/terms.html b/terms.html
@@ -9,7 +9,7 @@
 <meta name="description" content="Terms of sale for Retrace and its optional one-time Retrace Pro unlock.">
 <link rel="icon" href="icon.png?v=2">
 <link rel="apple-touch-icon" href="apple-touch-icon.png">
-<link rel="stylesheet" href="styles.css?v=4">
+<link rel="stylesheet" href="styles.css?v=5">
 </head>
 <body>
 
